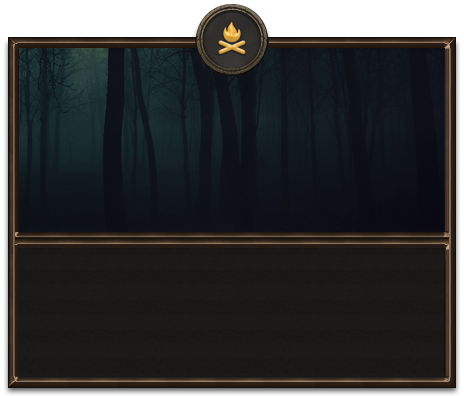
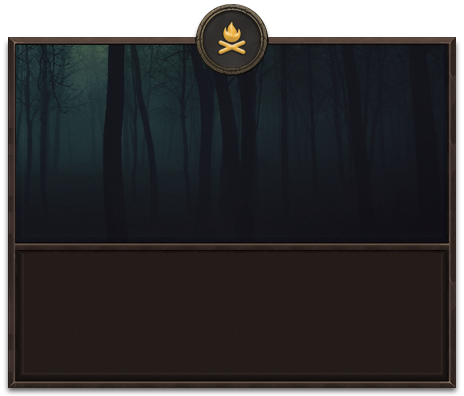
Updates

Changed region(s): [[0.0, 0.0909, 0.9957, 1.0]]

diff --git a/priv/static/sp.js b/priv/static/sp.js
@@ -157,7 +157,7 @@ rightImage.src = "/static/art/select_bar_right.png";
 close_rest.src = "/static/art/close_rest.png";
 selectHexImage.src = "/static/art/hover-hex.png";
 selectIconImage.src = "/static/art/select2.png";
-portraitBg.src = "/static/art/selected_bg.png";
+portraitBg.src = "/static/art/unit_badge.png";
 actionBarBgImage.src = "/static/art/ab_bg.png";
 reventBg.src = "/static/art/revent_bg.png";
 reventButtonBg.src = "/static/art/revent_button.png";
@@ -661,7 +661,10 @@ function onMessage(evt) {
             }
         }
         else if(jsonData.packet == "revent") {
-            drawReventPanel(jsonData);
+            drawReventPanel(jsonData, "responses");
+        }
+        else if(jsonData.packet == "revent_effects") {
+            drawReventPanel(jsonData, "effects");
         }
         else if(jsonData.packet == "stats") {
             var id = jsonData.stats._id;
@@ -1125,7 +1128,16 @@ function drawSelectedPortrait() {
             var objName = obj.type.toLowerCase().replace(/ /g, '');
             var imagePath =  "/static/art/" + objName + ".png";
 
-            addImage({id: objName, path: imagePath, x: 0, y: 0, target: content});
+            var text = new createjs.Text(obj.type, h1Font, textColor);
+
+            text.x = 160;
+            text.y = 9;
+            text.textAlign = "center";
+            text.lineWidth = 160; 
+
+            content.addChild(text);
+
+            addImage({id: objName, path: imagePath, x: 10, y: 5, target: content});
 
             sendGetStats(selectedPortrait);
         }
@@ -1133,21 +1145,21 @@ function drawSelectedPortrait() {
 };
 
 function drawStats(stats) {
-    var barWidth = 80;
+    var barWidth = 152;
     var hpRatio = stats.hp / stats.base_hp;
     var staminaRatio = stats.stamina / stats.base_stamina;
 
     hpBar.graphics.clear()
         .setStrokeStyle(10)
         .beginStroke('#8E0000')
-        .moveTo(333, stageHeight - 150)
-        .lineTo(333 + (hpRatio * barWidth), stageHeight - 150);
+        .moveTo(100, 40)
+        .lineTo(100 + (hpRatio * barWidth), 40);
 
     staminaBar.graphics.clear()
         .setStrokeStyle(10)
         .beginStroke('#009C0A')
-        .moveTo(333, stageHeight - 135)
-        .lineTo(333 + (staminaRatio * barWidth), stageHeight - 135);
+        .moveTo(100, 55)
+        .lineTo(100 + (staminaRatio * barWidth), 55);
 };
 
 function drawAttackClicked(attacktype) {
@@ -1943,7 +1955,7 @@ function drawItemSplit(itemId, itemName, quantity) {
     addImage({id: imageName, path: imagePath, x: 0, y: 0, target: iconRight});
 };
 
-function drawReventPanel(jsonData) {
+function drawReventPanel(jsonData, reventState) {
     reventPanel.visible = true;
 
     var content = reventPanel.getChildByName("content");
@@ -1966,20 +1978,31 @@ function drawReventPanel(jsonData) {
 
     content.addChild(text);
 
-    for(var i = 0; i < jsonData.responses.length; i++) {
-        var button = new reventButton(jsonData.responses[i], jsonData.effects[i]);
+    if(reventState == "responses") {
+        for(var i = 0; i < jsonData.responses.length; i++) {
+            var button = new reventButton(jsonData.responses[i], jsonData.effects[i]);
 
-        button.x = 27;
-        button.y = 250 + i * 30;
-        button.responseNum = i + 1;
+            button.x = 27;
+            button.y = 250 + i * 30;
+            button.responseNum = i + 1;
 
-        button.on("click", function(evt) {
-            console.log("Send Revent clicked");
-            sendReventResponse(this.responseNum);
-            reventPanel.visible = false;
-        });
+            button.on("click", function(evt) {
+                console.log("Send Revent clicked");
+                sendReventResponse(this.responseNum);
+                reventPanel.visible = false;
+            });
 
-        content.addChild(button);
+            content.addChild(button);
+        }
+    } else if(reventState == "effects") {
+        for(var i = 0; i < jsonData.effects.length; i++) {
+            var text = new createjs.Text(jsonData.effects[i], "12px Arial Regular", textColor);
+
+            text.x = 15;
+            text.y = 255 + i * 30;
+
+            content.addChild(text);
+        }
     }
 };
 
@@ -2294,8 +2317,8 @@ function initUI() {
     portraitPanel.addChild(bgPanel);
     portraitPanel.addChild(content);
  
-    portraitPanel.x = 333;
-    portraitPanel.y = stageHeight - 125;
+    portraitPanel.x = 15;
+    portraitPanel.y = 5;
 
     stage.addChild(portraitPanel);
 
